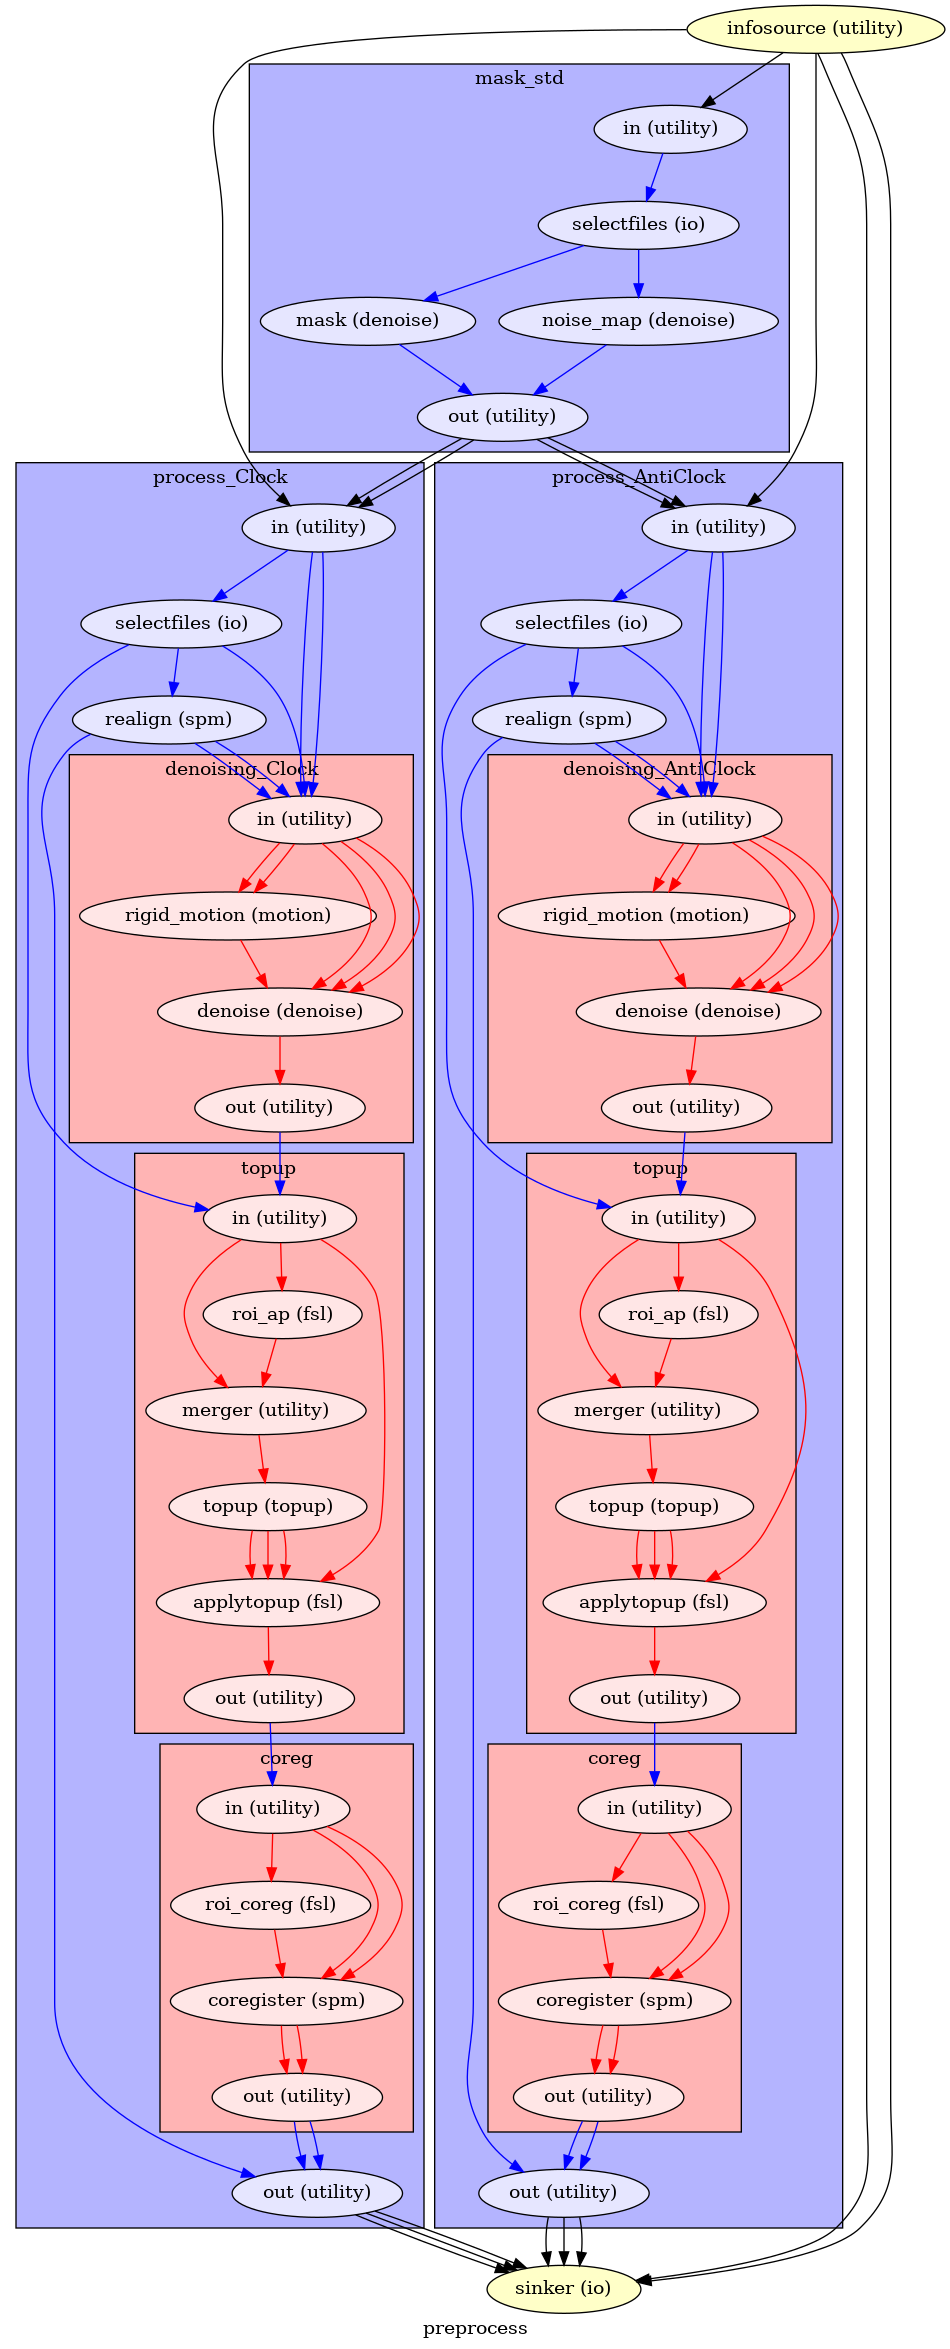
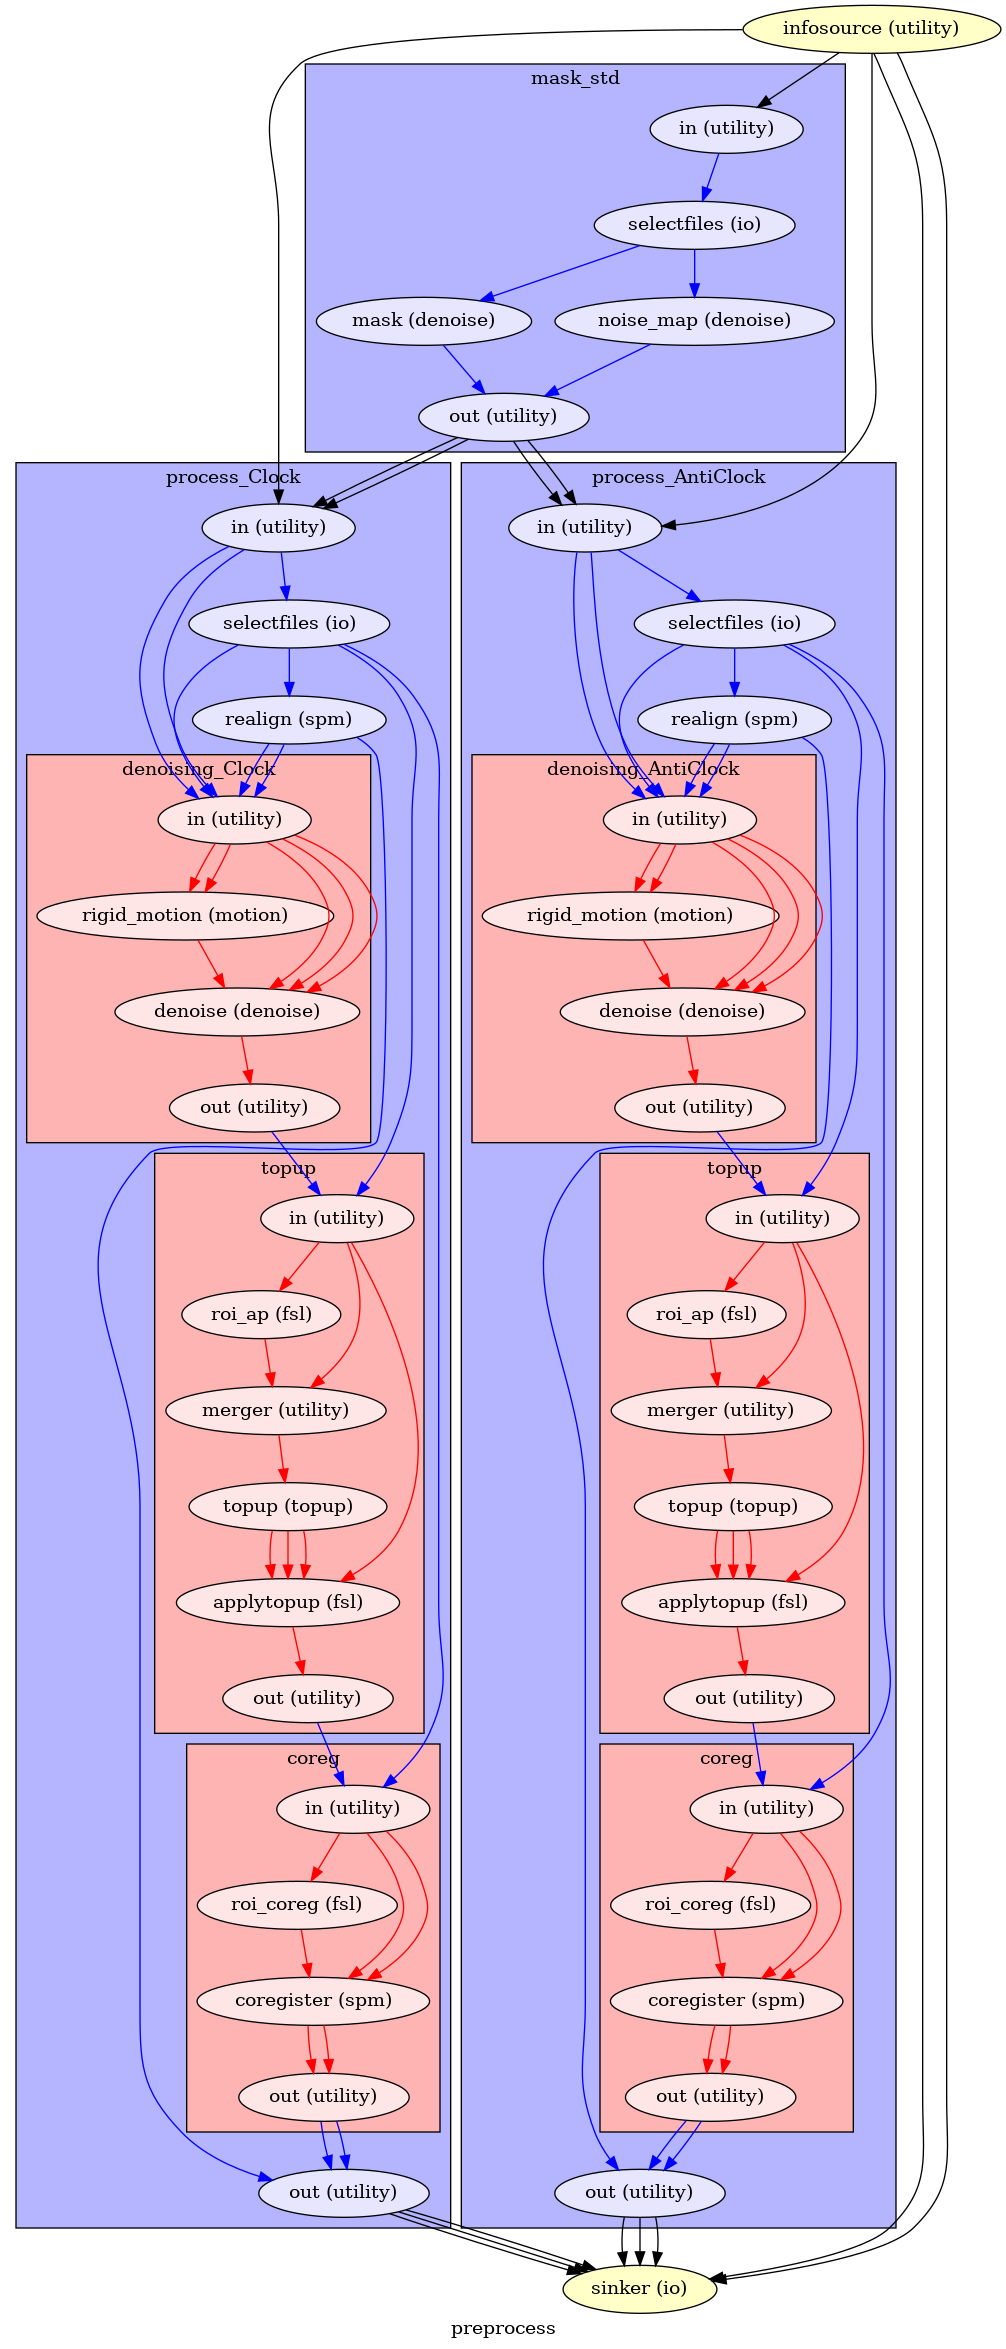
add source for coregistration.

Changed region(s): [[0.0, 0.0, 0.9768, 0.9945]]

diff --git a/retino/workflows/preprocessing.py b/retino/workflows/preprocessing.py
@@ -180,9 +180,12 @@ class PreprocessingWorkflowFactory(BaseWorkflowFactory):
         else:
             connections += [(realign, coregister, [("realigned_files", "in.func")])]
 
-        connections += [(coregister, out_node, [("out.coreg_func", "processed_func"),
-                                               ("out.coreg_anat", "anat")]),
-                       (realign, out_node, [("realignment_parameters", "motion")])]
+        connections += [
+            (files, coregister, [("anat", "in.anat")]),
+            (coregister, out_node, [("out.coreg_func", "processed_func"),
+                                    ("out.coreg_anat", "anat")]),
+            (realign, out_node, [("realignment_parameters", "motion")])
+        ]
 
         wf.connect(connections)
 
